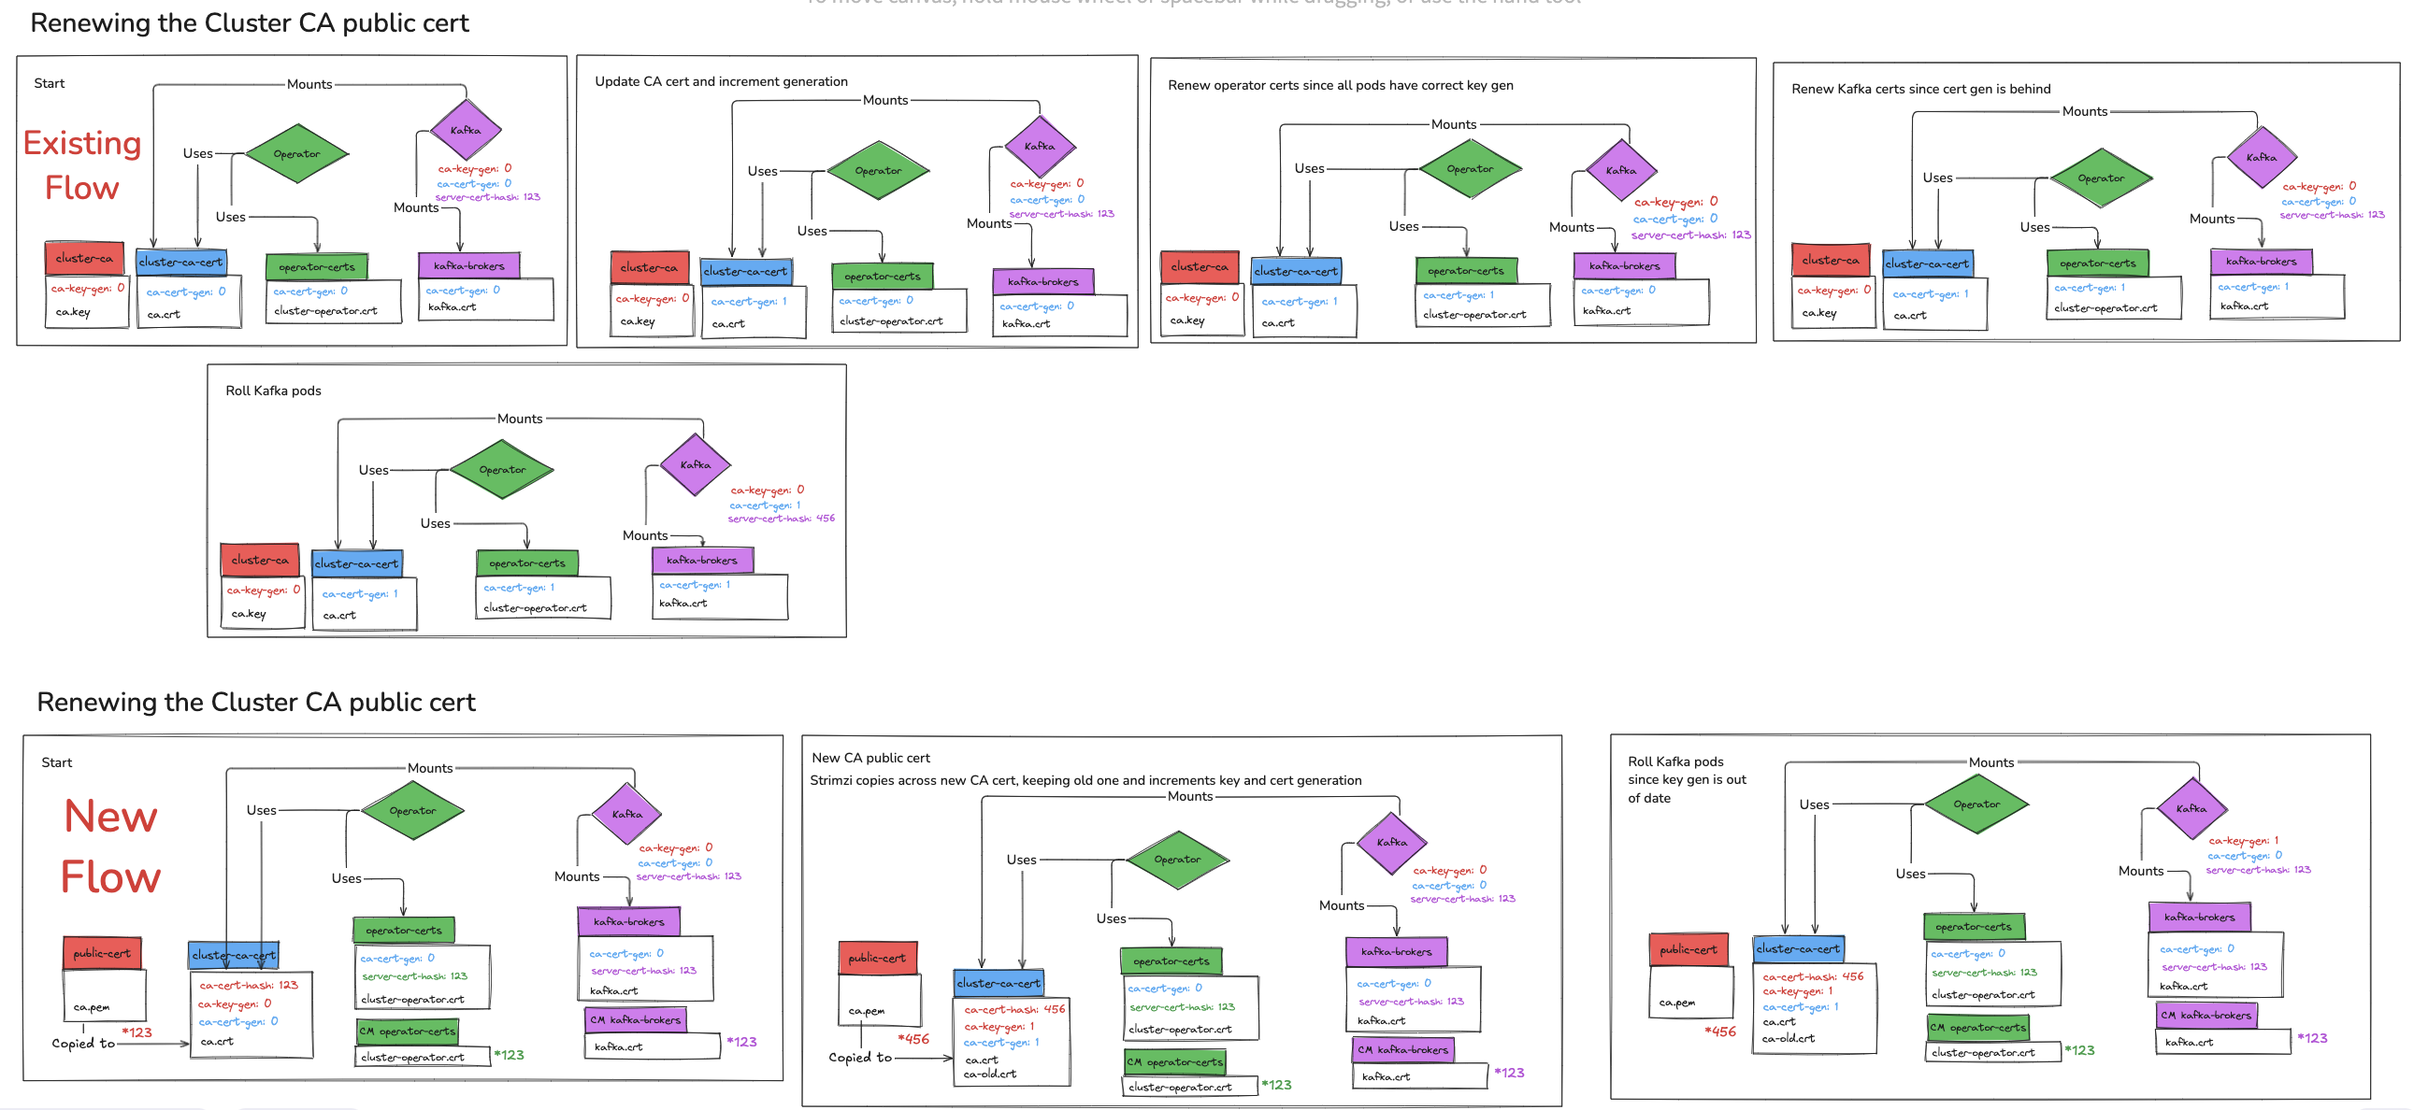
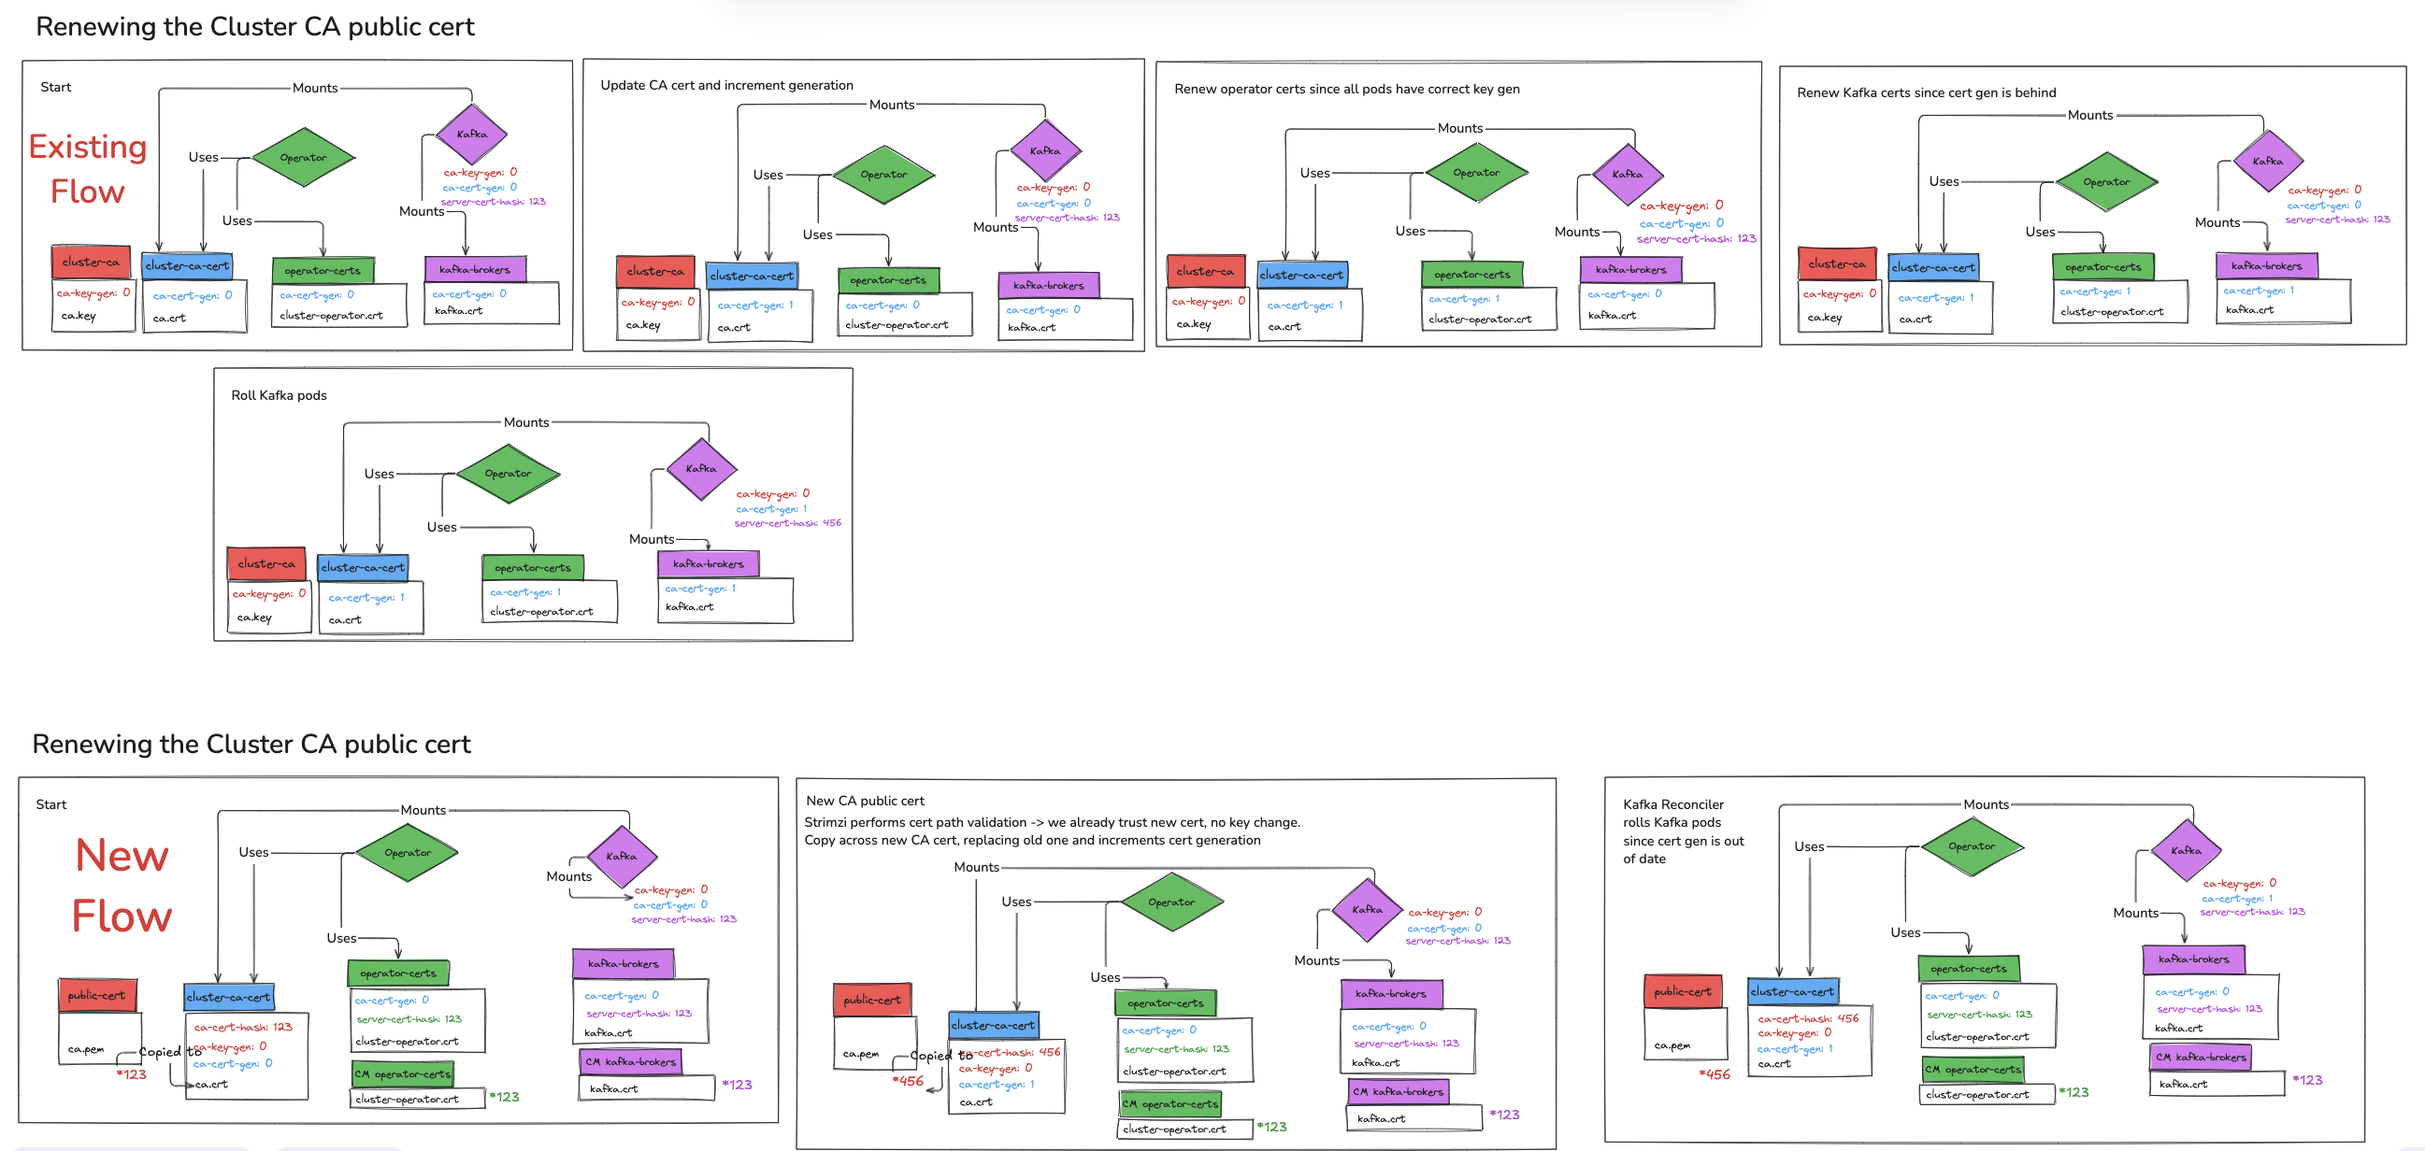
Address review comments and add cert path validation
* Address review comments from PaulRMellor, ppatierno
and fvaleri.

* Update Cluster CA flow so user does not need to
pause Strimzi when replacing the CA private key.
Instead use cert path validation to identify when
a key has been replaced and when new end-entity
certificates are not trusted yet.

Changed region(s): [[0.0, 0.6229, 0.9915, 1.0], [0.0, 0.0, 1.0, 0.5918], [0.5267, 0.1246, 0.6197, 0.1869]]

diff --git a/087-external-certificate-manager.md b/087-external-certificate-manager.md
@@ -5,12 +5,12 @@ This proposal aims to allow Strimzi users to use an external certificate manager
 ## Current situation
 
 There are two different categories of certificates that Strimzi handles:
-* The term "cluster" refers to certificates that are issued for the Strimzi components:
+* The "cluster" category refers to certificates that are issued for the Strimzi components:
   * Kafka nodes
   * Cluster, User and Topic operators
   * Cruise Control
   * Kafka Exporter
-* The term "clients" refers to certificates that are issued for user applications using the User Operator, or through another external mechanism chosen by the user.
+* The "clients" category refers to certificates that are issued for user applications using the User Operator, or through another external mechanism chosen by the user.
 
 For both categories, to provide a secure, TLS-enabled setup by default when deploying Kafka clusters, Strimzi integrated its own CA operations into the Cluster Operator.
 The Cluster Operator accomplishes this by using openssl to generate self-signed root CA certificates and private keys which it then uses to directly sign end-entity (EE) certificates.
@@ -21,7 +21,7 @@ These CAs are only used for Kafka clusters and a unique instance of each CA is u
 In addition to Strimzi fully managing the certificates as described above, there are options for users to partially manage the certificates:
 * Users can [install and use their own CA certificate and private keys](https://strimzi.io/docs/operators/latest/deploying#installing-your-own-ca-certificates-str), instead of using the defaults generated by the Cluster Operator.
   When using this option, both the CA certificate and private key must be provided, and Strimzi still issues the end-entity (EE) certificates that are presented by the components.
-* Provide a Clients CA public cert, a dummy value for the private key and issue their own user certificates out-of-band.
+* User can provide a Clients CA public certificate, a placeholder value for the private key, and issue their own user certificates independently.
   If using this approach, users can also use `KafkaUser` CRs with `spec.authentication.type` set to `tls-external` with the User Operator managing ACLs and quotas.
 * Users can [provide custom listener certificates](https://strimzi.io/docs/operators/latest/deploying#proc-installing-certs-per-listener-str) for TLS encryption.
   This option only affects how user applications connect to Kafka.
@@ -94,74 +94,91 @@ To make use of this new option the user will have to:
 
 ### Internal handling of Cluster CA
 
-Strimzi uses two generation annotations to track how Cluster CA certificates are trusted and used:
-* `strimzi.io/cluster-ca-key-generation` on Kafka pods to indicate the CA generation trusted by that pod
-* `strimzi.io/cluster-ca-cert-generation` on Secrets containing certs to indicate the CA generation that signed those certs
+Strimzi uses two generation annotations to track how Cluster CA certificates are trusted and Cluster CA issued certificates are used:
+* `strimzi.io/cluster-ca-key-generation` on Kafka pods to indicate the generation of the CA private key that signed the CA public cert trusted by that pod
+* `strimzi.io/cluster-ca-cert-generation` on Secrets containing certificates to indicate the generation of the CA public cert at the time the certificate was issued
 
-The `strimzi.io/cluster-ca-cert-generation` annotation is also used on Kafka pods to indicate the CA generation that signed the certs it is currently presenting (i.e. the CA generation currently in use).
+The `strimzi.io/cluster-ca-cert-generation` annotation is also used on Kafka pods to indicate the generation of the CA public cert associated with the certificate it is currently presenting.
 
-When using cert-manager for issuing certificates Strimzi will continue to use these generations in the same way.
+The following sections go into more detail about how we will use these annotations when cert-manager is issuing certificates.
+At a high level:
+* Strimzi will use cert path validation using the `java.security` libraries to determine whether a new Cluster CA public cert was signed with a new private key.
+* If a new private key was used, Strimzi will increment both the `strimzi.io/ca-key-generation` and `strimzi.io/ca-cert-generation` annotations on the Cluster CA cert Secret and roll the Kafka pods from CaReconciler to trust the new public cert.
+* If the private key has not changed, Strimzi will increment only the `strimzi.io/ca-cert-generation` annotation on the Cluster CA cert Secret and roll the Kafka pods from KafkaReconciler to trust the new public cert.
+* If a new end-entity certificate is issued, Strimzi will use cert path validation to verify it is trusted by the latest Cluster CA cert Secret before using it.
+* Strimzi will update the `strimzi.io/cluster-ca-cert-generation` annotation on the Kafka pods to match the annotation on the Cluster CA cert Secret when it copies over a new end-entity certificate
 
 #### Handling Cluster CA trust rollout
 
-When a new Kafka cluster is created Strimzi will copy the CA public cert from the Secret identified in `clusterCa.publicCert` to the `<CLUSTER_NAME>-cluster-ca-cert` Secret.
+When a new Kafka cluster is created Strimzi will copy the CA public cert from the Secret identified in `clusterCa.publicCert` to the `<CLUSTER_NAME>-cluster-ca-cert` Secret in a data entry named `ca.crt`.
 Strimzi will add three annotations to the `<CLUSTER_NAME>-cluster-ca-cert` Secret:
 * `strimzi.io/ca-cert-hash` with the value being a hash of the certificate.
 * `strimzi.io/ca-key-generation` initially set to 0.
 * `strimzi.io/ca-cert-generation` initially set to 0.
 
 During a reconciliation Strimzi will check the hash of the certificate stored in `clusterCa.publicCert` Secret to see if an update is needed.
-If the certificate has changed Strimzi will rename the existing cert in the `<CLUSTER_NAME>-cluster-ca-cert` Secret to `ca-YYYY-MM-DDTHH-MM-SSZ.crt` and copy over the new certificate.
-It will also update the `strimzi.io/ca-cert-hash` and increment the `strimzi.io/ca-key-generation` and `strimzi.io/ca-cert-generation` annotations.
+If the certificate has changed Strimzi will perform cert path validation using the `java.security` libraries to determine whether a new Cluster CA public cert was signed with a new private key.
+If the private key has not changes, Strimzi will copy over the new certificate, replacing the existing one.
+It will also update the `strimzi.io/ca-cert-hash` and increment the `strimzi.io/ca-cert-generation` annotation.
+Each of the component reconcilers will check the `strimzi.io/cluster-ca-cert-generation` on their pods during their reconcile loop, and update the pod annotation and roll the pods if the generation is out of date. 
 
-#### Issuing end-entity certificates
+> ![Renewing the cluster CA public cert](./images/087-cert-renewals.png)
+>
+> Fig 1: Existing and proposed workflow when the user provides a new cluster CA public cert
+
+#### Issuing Cluster CA end-entity certificates
 
 When Strimzi needs to issue a certificate, instead of using the existing internal mechanism it will create a `Certificate` custom resource.
-Strimzi will specify the required CN/SANS in the `Certificate` resource for the end-entity certificate.
+Strimzi will specify the required CN/SANs in the `Certificate` resource for the end-entity certificate.
 Strimzi will set the `secretName` field in the `Certificate` resource as `<CERT_SECRET>-cm`, where `<CERT_SECRET>` is the name of the Secret Strimzi currently uses, for example `<CLUSTER_NAME>-cluster-operator-certs-cm`.
 Strimzi will wait for the usual operation timeout during the reconciliation loop for the `Certificate` status to indicate that the certificate has been issued before continuing.
 When issuing cluster certificates (e.g for each Kafka pod etc), once the certificate has been issued, Strimzi will copy the certificate across from the cert-manager provided Secret into its own existing Secret.
 Strimzi will annotate the Secret it manages with:
-* `strimzi.io/server-cert-hash` annotation with the value being the hash of the certificate in the cert-manager Secret.
+* `strimzi.io/server-cert-hash` annotation with the value being the hash of the certificate being stored in the Secret.
 * `strimzi.io/cluster-ca-cert-generation` annotation with the value matching the current value of `strimzi.io/ca-cert-generation` on the `<CLUSTER_NAME>-cluster-ca-cert` Secret.
 
 Similar to today, Strimzi will also add both these annotations to the pod mounting the Secret.
 
-#### Tracking changes to cluster end-entity certificates
+#### Tracking changes to Cluster CA end-entity certificates
 
-Cert-manager will be responsible for renewing all end-entity certificates.
+Cert-manager will be responsible for renewing all Cluster CA end-entity certificates.
 When a certificate is renewed cert-manager will update the related Secret.
 During a reconciliation Strimzi will check the hash of the certificate stored in cert-manager Secrets to see if an update is needed.
 
-When cert-manager renews an end-entity certificate Strimzi will copy over the new certificate into its own Secret.
-Strimzi will update the `strimzi.io/server-cert-hash` annotation to match the new certificate.
-Strimzi will update the `strimzi.io/cluster-ca-cert-generation` annotation to match the `strimzi.io/ca-cert-generation` annotation on the `<CLUSTER_NAME>-cluster-ca-cert` Secret.
+When cert-manager renews an end-entity certificate Strimzi will perform cert path validation using the `java.security` libraries to determine whether the new certificate is trusted by the latest Cluster CA public cert.
+If the certificate is trusted:
+* Strimzi will copy over the new certificate into its own Secret.
+* Strimzi will update the `strimzi.io/server-cert-hash` annotation to match the new certificate.
+* Strimzi will update the `strimzi.io/cluster-ca-cert-generation` annotation to match the `strimzi.io/ca-cert-generation` annotation on the `<CLUSTER_NAME>-cluster-ca-cert` Secret.
+
+If the certificate is not trusted:
+* Strimzi will do nothing and complete the reconciliation loop as normal.
+* During future reconciliations Strimzi will repeat the cert path validation steps until the user has updated the Cluster CA public cert given to Strimzi to one that trusts the new certificate.
 
 Strimzi will review the `Certificate` resource every time it does a reconciliation to see if any changes to the requested certificate are needed, for example updating SANs.
 
 > ![Issuing new component end-entity certificates](./images/087-new-ee-certs.png)
 >
-> Fig 1: Proposed workflow when cert-manager issues new component end-entity certificates
+> Fig 2: Proposed workflow when cert-manager issues new component end-entity certificates
 
-#### Handling CA key replacements
+#### Handling Cluster CA key replacements
 
-During a CA key replacement the user must pause Strimzi reconciliation until the following are complete:
-* A new CA key has been generated
-* A new CA public certificate has been issued
-* The Secret provided to Strimzi containing the CA public certificate has been updated
+If during a reconciliation Strimzi determines (using cert path validation) that a new private key has been used, Strimzi will:
+1. Rename the existing cert in the `<CLUSTER_NAME>-cluster-ca-cert` Secret to `ca-YYYY-MM-DDTHH-MM-SSZ.crt` and copy over the new certificate.
+2. Update the `strimzi.io/ca-cert-hash` and increment the `strimzi.io/ca-cert-generation` and `strimzi.io/ca-key-generation` annotations.
+3. Roll the Kafka pods to trust the new CA cert, incrementing the `strimzi.io/cluster-ca-key-generation` annotation on the pods.
+4. Once new end-entity certificates are issued that trust the new Cluster CA public cert, copy over the new Kafka certificates, updating the `strimzi.io/cluster-ca-cert-generation` annotation on the Secrets.
+5. Roll the Kafka pods to use the new Kafka certificates, updating the `strimzi.io/cluster-ca-cert-generation` annotations on the pods.
+6. Then on the next reconciliation, since the Kafka pods now have correct cert and key generation, and the Kafka certificate Secrets have the correct cert generation, copy over the new operator certificate.
+7. Since the Kafka pods now have correct cert generation, and the Kafka certificate Secrets have the correct cert generation, remove the old CA public cert from the `<CLUSTER_NAME>-cluster-ca-cert` Secret.
 
-Once these are complete Strimzi can be resumed.
-During the next reconciliation Strimzi will:
-1. Copy over the new CA public cert (keeping the old one as described previously) and update the hash and generation annotations.
-2. Roll the Kafka pods to trust the new CA cert, incrementing the `strimzi.io/cluster-ca-key-generation` annotation on the pods.
-3. Copy over the new Kafka certificates, updating the `strimzi.io/cluster-ca-cert-generation` annotations on the Secrets.
-4. Roll the Kafka pods to use the new Kafka certificates, updating the `strimzi.io/cluster-ca-cert-generation` annotations on the Pods.
-5. Then on the next reconciliation, since the Kafka pods now have correct cert and key generation, copy over the new operator certificate.
-6. Since the Kafka pods now have correct cert generation, remove the old CA public cert from the `<CLUSTER_NAME>-cluster-ca-cert` Secret
+**Note:** The above steps require a change to the CaReconciler.
+Today we only check the `strimzi.io/cluster-ca-cert-generation` annotation on the Kafka pods to decide whether to update the operator certificate Secret and remove the old Cluster CA cert.
+When using cert-manager to manage certificates, Strimzi will also check the annotation on the Kafka certificate Secrets before making either of these changes.
 
-> ![Renewing the cluster CA public cert](./images/087-cert-renewals.png)
+> ![Replacing the cluster CA private key](./images/087-new-cluster-ca-key-replacement.png)
 >
-> Fig 2: Existing and proposed workflow when the user provides a new cluster CA public cert
+> Fig 3: Proposed workflow when the user provides a new cluster CA public cert that has been signed by a new private key
 
 ### User Operator/Clients CA
 
@@ -178,21 +195,21 @@ The User operator will be updated to have four environment variables to configur
 - `STRIMZI_CM_ISSUER_KIND`
 - `STRIMZI_CM_ISSUER_GROUP`
 
-These will be set by the Cluster operator when the User operator is deployed as part of the Entity operator.
+These will be set by the Cluster operator when the User operator is deployed as part of the Entity operator and when `spec.clientsCa.type` is set to `cert-manager.io`.
 
-When a `KafkaUser` with `spec.authentication.type` set to `tls` is creates Strimzi  will create a `Certificate` custom resource.
-Strimzi will specify the required CN/SANS in the `Certificate` resource for the user certificate.
+When a `KafkaUser` with `spec.authentication.type` set to `tls` is created Strimzi will create a `Certificate` custom resource.
+Strimzi will specify the required CN/SANs in the `Certificate` resource for the user certificate.
 Strimzi will specify the `Secret` for the certificate to be stored to match the name of the `KafkaUser` resource.
 Strimzi will request the certificate in both PEM and PKCS12 format.
 Strimzi will wait for the usual operation timeout during the reconciliation loop for the `Certificate` status to indicate that the certificate has been issued before continuing.
 
-#### Tracking changes to user certificates
+#### Tracking changes to KafkaUser certificates
 
 Cert-manager will be responsible for renewing all user certificates.
 When a certificate is renewed cert-manager will update the related Secret.
 Since the user's clients are directly using the cert-manager created Secret, Strimzi will take no action.
 
-#### Handling CA cert renewals and key replacements
+#### Handling Clients CA cert renewals and key replacements
 
 During a reconciliation Strimzi will check the hash of the certificate stored in the user's CA public cert Secret to see if an update is needed.
 If the certificate has changed Strimzi will copy over the new certificate to replace the existing one.
@@ -297,3 +314,11 @@ This was removed because there was no check being used to determine whether the 
 As a result having a copy is not needed.
 This also means the user `Secret` will not contain the ClientsCA public cert.
 However since the user is managing the CA (via cert-manager) this is not an issue.
+
+### Require the user to pause reconciliation during Cluster CA key replacement
+
+A previous version of this proposal described the user pausing Strimzi reconciliation when the Cluster CA key is replaced.
+This was to address a scenario where new end-entity certificates are issued by cert-manager before Strimzi is given the new Cluster CA public cert that trusts those certificates.
+This was removed because it is unclear whether this is a reasonable constraint on the user, and if the user does not pause Strimzi could result in the Kafka certificates
+being incorrectly updated and Kafka pods failing to start.
+Instead, the proposal now describes the use of cert path validation to determine when the Cluster CA key has been replaced.
